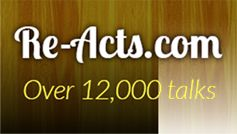
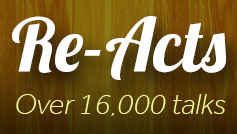
Small updates to meta data and image files
Added some basic SEO tags, FB and icon files. Replaced Re-Acts tile
with proper version. Switched out typeform links with Machform links so
we can have hidden fields.

diff --git a/public/google5b38dc6a99f86895.html b/public/google5b38dc6a99f86895.html
@@ -1,0 +1,1 @@
+google-site-verification: google5b38dc6a99f86895.html

diff --git a/public/index.php b/public/index.php
@@ -11,9 +11,19 @@ function inc_src($path) {
     <meta http-equiv="x-ua-compatible" content="ie=edge">
 
     <title>The Revival Fellowship</title>
-    <meta name="description" content="">
-
+    <meta name="keywords" content="Spiritfilled, Jesus, Repentance, Baptism, Holy Ghost, Speaking in Tongues">
+    <meta name="description" content="We believe in a God that is alive today, a bible that is the word of God and the born again experience of the Holy Spirit. A solid foundation in Christ.">
     <meta name="viewport" content="width=device-width, initial-scale=1">
+    <meta property="og:title" content="The Revival Fellowship - A solid foundation in Christ.">
+	<meta property="og:description" content="We believe in a God that is alive today, a bible that is the word of God and the born again experience of the Holy Spirit.">
+	<meta property="og:url" content="http://therevivalfellowship.com/">
+	<meta property="og:image" content="http://therevivalfellowship.com/assets/img/title--facebook--ogimage.jpg">
+
+    <link rel="apple-touch-icon" href="assets/img/apple-touch-icon.png">
+    <meta name="msapplication-TileImage" content="assets/img/ms-touch-icon-144x144-precomposed.png">
+    <meta name="msapplication-TileColor" content="#f5f5f5">
+    <meta name="msapplication-tap-highlight" content="no">
+    
     <link rel="stylesheet" href="assets/css/index.min.css">
 
     <script src="https://use.typekit.net/ppd6ljk.js"></script>

diff --git a/src/news-events/news-events.php b/src/news-events/news-events.php
@@ -2,7 +2,7 @@
 
     <div class="news-events__header">
         <h2 class="news-events__header__title">News &amp; Events</h2>
-        <a class="news-events__header__submit typeform-share link" href="https://revivalfellowship.typeform.com/to/WVOu7L" data-mode="1" target="_blank">Submit Event</a>
+        <a class="news-events__header__submit typeform-share link" href="http://forms.trflife.com/admin/view.php?id=12094&element_5=GlobalWebsiteEventSubmit" data-mode="1" target="_blank">Submit Event</a>
     </div>
 
     <div class="news-events__main">

diff --git a/src/footer/footer.php b/src/footer/footer.php
@@ -1,6 +1,6 @@
 <footer class="footer outer-container">
     <div class="footer__action">
-        <a class="button typeform-share link" href="https://revivalfellowship.typeform.com/to/WVOu7L" data-mode="1" target="_blank">Contact us</a>
+        <a class="button typeform-share link" href="http://forms.trflife.com/admin/view.php?id=12094&element_5=GlobalWebsite" data-mode="1" target="_blank">Contact us</a>
     </div>
     <blockquote class="footer__quote">
         "Then Peter said unto them, Repent,
